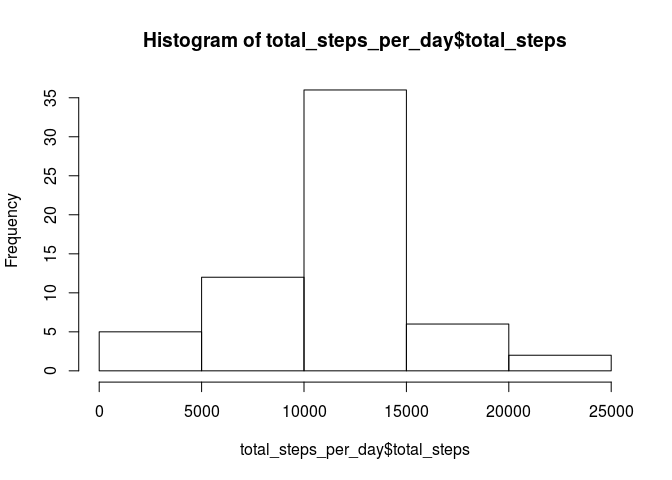
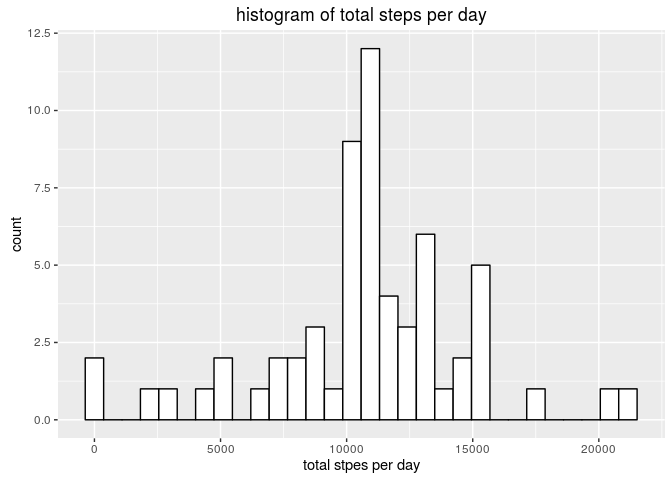
my changes

diff --git a/PA1_template.html b/PA1_template.html
@@ -139,8 +139,10 @@ activity&lt;-activity[!is.na(activity$steps),]</code></pre>
 <pre class="r"><code>library(ggplot2)
 library(timeDate)
 total_steps_per_day=activity%&gt;%group_by(date)%&gt;%summarise(total_steps=sum(steps))
-hist(total_steps_per_day$total_steps)</code></pre>
[1 lines of base64/hex data omitted]
+gg=ggplot(total_steps_per_day,aes(x=total_steps))
+gg+geom_histogram(colour=&quot;black&quot;, fill=&quot;white&quot;)+labs(title=&quot;histogram of total steps per day&quot;,x=&quot;total stpes per day&quot;)</code></pre>
+<pre><code>## `stat_bin()` using `bins = 30`. Pick better value with `binwidth`.</code></pre>
[1 lines of base64/hex data omitted]
 <pre class="r"><code>mean_total_steps_per_day=mean(total_steps_per_day$total_steps)
 print(mean_total_steps_per_day)</code></pre>
 <pre><code>## [1] 10766.19</code></pre>
@@ -166,8 +168,10 @@ print(sum(row_is_na))</code></pre>
 <pre><code>## [1] 2304</code></pre>
 <pre class="r"><code>activity_new&lt;-activity_na %&gt;% group_by(interval) %&gt;% mutate(steps = ifelse(is.na(steps),mean(steps,na.rm=T), steps))
 total_steps_per_day=activity_new%&gt;%group_by(date)%&gt;%summarise(total_steps=sum(steps))
-hist(total_steps_per_day$total_steps)</code></pre>
[1 lines of base64/hex data omitted]
+gg=ggplot(total_steps_per_day,aes(x=total_steps))
+gg+geom_histogram(colour=&quot;black&quot;, fill=&quot;white&quot;)+labs(title=&quot;histogram of total steps per day&quot;,x=&quot;total stpes per day&quot;)</code></pre>
+<pre><code>## `stat_bin()` using `bins = 30`. Pick better value with `binwidth`.</code></pre>
[1 lines of base64/hex data omitted]
 <pre class="r"><code>mean_total_steps_per_day=mean(total_steps_per_day$total_steps)
 print(mean_total_steps_per_day)</code></pre>
 <pre><code>## [1] 10766.19</code></pre>

diff --git a/PA1_template.md b/PA1_template.md
@@ -38,7 +38,12 @@ library(dplyr)
 library(ggplot2)
 library(timeDate)
 total_steps_per_day=activity%>%group_by(date)%>%summarise(total_steps=sum(steps))
-hist(total_steps_per_day$total_steps)
+gg=ggplot(total_steps_per_day,aes(x=total_steps))
+gg+geom_histogram(colour="black", fill="white")+labs(title="histogram of total steps per day",x="total stpes per day")
+```
+
+```
+## `stat_bin()` using `bins = 30`. Pick better value with `binwidth`.
 ```
 
 ![](PA1_template_files/figure-html/unnamed-chunk-2-1.png)<!-- -->
@@ -97,7 +102,12 @@ print(sum(row_is_na))
 ```r
 activity_new<-activity_na %>% group_by(interval) %>% mutate(steps = ifelse(is.na(steps),mean(steps,na.rm=T), steps))
 total_steps_per_day=activity_new%>%group_by(date)%>%summarise(total_steps=sum(steps))
-hist(total_steps_per_day$total_steps)
+gg=ggplot(total_steps_per_day,aes(x=total_steps))
+gg+geom_histogram(colour="black", fill="white")+labs(title="histogram of total steps per day",x="total stpes per day")
+```
+
+```
+## `stat_bin()` using `bins = 30`. Pick better value with `binwidth`.
 ```
 
 ![](PA1_template_files/figure-html/unnamed-chunk-4-1.png)<!-- -->
